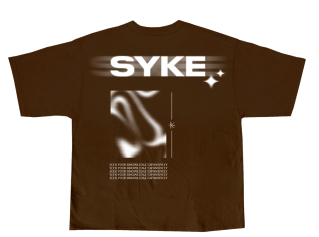
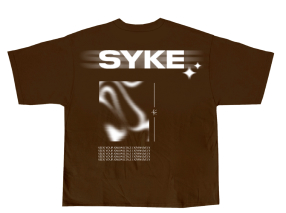
botao funciaonando

diff --git a/projetoFinal/src/TelaProduto.java b/projetoFinal/src/TelaProduto.java
@@ -2,36 +2,36 @@ import java.awt.*;
 import javax.swing.*;
 import java.awt.event.ActionEvent;
 import java.awt.event.ActionListener;
+import java.lang.Math;
 
 public class TelaProduto extends Tela implements ActionListener {
-    private ImageIcon blusaProduto;
+    private ImageIcon imagensCamiseta[];
     private ImageIcon tituloProduto;
     private ImageIcon descricaoProduto;
     private int precoBlusa;
+    public int indiceFoto;
     private char tamanhoBlusa;
     public Main app;
-    //private BarraTamanho barraTamanho
-    // barra com 3 botoes de p, m, g
-
     public JLayeredPane paneTelaProduto;
+    public JLabel labelBlusaProduto;
     public JButton botaoTamanhoP;
     public JButton botaoTamanhoM;
     public JButton botaoTamanhoG;
     public JButton botaoVoltar;
+    public JButton botaoAvancaFoto;
+    public JButton botaoVoltaFoto;
+    //private BarraTamanho barraTamanho
+    // barra com 3 botoes de p, m, g
 
     public TelaProduto(boolean mostrarBarraNavegacao, 
-                        ImageIcon blusaProduto, 
-                        ImageIcon tituloProduto, 
-                        ImageIcon descricaoProduto,
+                        String corCamiseta,
                         Main app){
-        
         super(mostrarBarraNavegacao);
-        this.blusaProduto = blusaProduto;
-        this.tituloProduto = tituloProduto;
-        this.descricaoProduto = descricaoProduto;
+        organizaImagensTela(corCamiseta);
         this.precoBlusa = 100;
         this.tamanhoBlusa = 'd'; // comeca como default
         this.app = app;
+        this.indiceFoto = 0;
 
         // Definicao do layout do layeredPane
         paneTelaProduto = new JLayeredPane();
@@ -43,13 +43,15 @@ public class TelaProduto extends Tela implements ActionListener {
         painelImagemFundo.setBounds(0, 0, 390, 844);
 
         // Criando um Label para as imagens da blusa, do titulo e da descrição
-        JLabel labelBlusaProduto = new JLabel(blusaProduto);
+        this.labelBlusaProduto = new JLabel();
+        this.labelBlusaProduto.setIcon(imagensCamiseta[0]);
         JLabel labelTituloProdutoAbaixo = new JLabel(tituloProduto); // título de baixo
         JLabel labelTituloProdutoAcima = new JLabel(tituloProduto); // titulo de cima
         JLabel labelDescricaoProduto = new JLabel(descricaoProduto);
 
         // Ajustando o tamanho das imagens da blusa, do título e da descrição
-        labelBlusaProduto.setBounds(63, 230, 283, 219);
+        // labelBlusaProduto.setBounds(63, 230, 283, 219);
+        labelBlusaProduto.setBounds(52, 241, 286, 217);
         labelTituloProdutoAbaixo.setBounds(40, 571, 274, 71);
         labelTituloProdutoAcima.setBounds(29, 113, 274, 71);
         labelDescricaoProduto.setBounds(40, 633, 350, 120);
@@ -59,18 +61,24 @@ public class TelaProduto extends Tela implements ActionListener {
         ImageIcon imagemBotaoM = new ImageIcon("lib/tamanhoM.jpg");
         ImageIcon imagemBotaoG = new ImageIcon("lib/tamanhoG.jpg");
         ImageIcon imagemBotaoVoltar = new ImageIcon("lib/icon _arrow left_.png");
+        ImageIcon imagemBotaoAvancaFoto = new ImageIcon("lib/botaoAvancaFoto.jpg");
+        ImageIcon imagemBotaoVoltaFoto = new ImageIcon("lib/botaoVoltaFoto.jpg");
 
         // Adicionando Imagens aos botões dos tamanhos
         botaoTamanhoP = new JButton(imagemBotaoP);
         botaoTamanhoM = new JButton(imagemBotaoM);
         botaoTamanhoG = new JButton(imagemBotaoG);
         botaoVoltar = new JButton(imagemBotaoVoltar);
+        botaoAvancaFoto = new JButton(imagemBotaoAvancaFoto);
+        botaoVoltaFoto = new JButton(imagemBotaoVoltaFoto);
 
         // Ajustando o tamanho e posicionamento dos botões dos tamanhos
         botaoTamanhoP.setBounds(55, 505, 37, 45);
         botaoTamanhoM.setBounds(176, 505, 37, 45);
         botaoTamanhoG.setBounds(295, 505, 37, 45);
         botaoVoltar.setBounds(40, 44, 25, 18);
+        botaoAvancaFoto.setBounds(350, 365, 14, 22);
+        botaoVoltaFoto.setBounds(25, 368, 11, 19);
 
         // Ajustando a borda dos botões
         botaoTamanhoP.setBorderPainted(false);
@@ -78,7 +86,9 @@ public class TelaProduto extends Tela implements ActionListener {
         botaoTamanhoG.setBorderPainted(false);
         botaoVoltar.setBorderPainted(false);
         botaoVoltar.setBackground(new Color(0,0,0,0));
-        
+        botaoAvancaFoto.setBorderPainted(false);
+        botaoVoltaFoto.setBorderPainted(false);
+
         // Ajustando as camadas do panel que serão colocadas as imagens
         paneTelaProduto.add(painelImagemFundo, Integer.valueOf(0));
         paneTelaProduto.add(labelBlusaProduto, Integer.valueOf(2));
@@ -91,17 +101,17 @@ public class TelaProduto extends Tela implements ActionListener {
         paneTelaProduto.add(botaoTamanhoM, Integer.valueOf(2));
         paneTelaProduto.add(botaoTamanhoG, Integer.valueOf(2));
         paneTelaProduto.add(botaoVoltar, Integer.valueOf(2));
+        paneTelaProduto.add(botaoAvancaFoto, Integer.valueOf(2));
+        paneTelaProduto.add(botaoVoltaFoto, Integer.valueOf(2));
         
         // Action listener botao voltar
         botaoVoltar.addActionListener(this);
+        botaoAvancaFoto.addActionListener(this);
+        botaoVoltaFoto.addActionListener(this);
     }
 
     public JLayeredPane getLayeredPane(){
         return this.paneTelaProduto;
-    }
-
-    public ImageIcon getImageBlusaProduto(){
-        return this.blusaProduto;
     }
 
     public ImageIcon getImageTituloProduto(){
@@ -118,14 +128,6 @@ public class TelaProduto extends Tela implements ActionListener {
 
     public void setTamanhoBlusa(char tamanhoBlusa){ // somente P, M ou G
         this.tamanhoBlusa = tamanhoBlusa;
-    }
-
-    public ImageIcon getBlusaProduto() {
-        return this.blusaProduto;
-    }
-
-    public void setBlusaProduto(ImageIcon blusaProduto) {
-        this.blusaProduto = blusaProduto;
     }
 
     public ImageIcon getTituloProduto() {
@@ -192,6 +194,22 @@ public class TelaProduto extends Tela implements ActionListener {
         this.botaoTamanhoG = botaoTamanhoG;
     }
 
+    public JButton getBotaoAvancaFoto() {
+        return this.botaoAvancaFoto;
+    }
+
+    public void setBotaoAvancaFoto(JButton botaoAvancaFoto) {
+        this.botaoAvancaFoto = botaoAvancaFoto;
+    }
+
+    public JButton getBotaoVoltaFoto() {
+        return this.botaoVoltaFoto;
+    }
+
+    public void setbotaoVoltaFoto(JButton botaoVoltaFoto) {
+        this.botaoVoltaFoto = botaoVoltaFoto;
+    }
+
     public JButton getBotaoVoltar() {
         return this.botaoVoltar;
     }
@@ -199,13 +217,48 @@ public class TelaProduto extends Tela implements ActionListener {
     public void setBotaoVoltar(JButton botaoVoltar) {
         this.botaoVoltar = botaoVoltar;
     }
-
     
+    public void organizaImagensTela(String corCamiseta) {
+        this.imagensCamiseta = new ImageIcon[2];
+        if (corCamiseta.equals("preta")) {
+            this.imagensCamiseta[0] = new ImageIcon("lib/camisetaPretaFrente.jpg");
+            this.imagensCamiseta[1] = new ImageIcon("lib/camisetaPretaTras.jpg");
+            this.tituloProduto = new ImageIcon("lib/tituloCamisetaPreta.jpg");
+        } else if (corCamiseta.equals("marrom")) {
+            this.imagensCamiseta[0] = new ImageIcon("lib/camisetaMarromFrente.jpg");
+            this.imagensCamiseta[1] = new ImageIcon("lib/camisetaMarromTras.jpg");
+            this.tituloProduto = new ImageIcon("lib/tituloCamisetaMarrom.jpg");
+        } else if (corCamiseta.equals("offwhite")) {
+            this.imagensCamiseta[0] = new ImageIcon("lib/camisetaOffWhiteFrente.jpg");
+            this.imagensCamiseta[1] = new ImageIcon("lib/camisetaOffWhiteTras.jpg");
+            this.tituloProduto = new ImageIcon("lib/tituloCamisetaOffWhite.jpg");
+        } else if (corCamiseta.equals("branca")) {
+            this.imagensCamiseta[0] = new ImageIcon("lib/camisetaBrancaFrente.jpg");
+            this.imagensCamiseta[1] = new ImageIcon("lib/camisetaBrancaTras.jpg");
+            this.tituloProduto = new ImageIcon("lib/tituloCamisetaBranca.jpg");
+        }
+        this.descricaoProduto = new ImageIcon("lib/TESTEdescricao.jpg");
+    }
+
+    public int decideIndiceImagem(int indice) {
+        if (Math.abs(indice) % 2 == 0) {
+            return 0;
+        } else {
+            return 1;
+        }
+    }
+
     @Override
     public void actionPerformed(ActionEvent e) {
         if (e.getSource() == getBotaoVoltar()) {
             app.mostrarTela("Essentials");
-        } 
+        } else if (e.getSource() == getBotaoAvancaFoto()) {
+            this.indiceFoto++;
+            this.labelBlusaProduto.setIcon(imagensCamiseta[decideIndiceImagem(indiceFoto)]);
+        } else if (e.getSource() == getBotaoVoltaFoto()) {
+            this.indiceFoto--;
+            this.labelBlusaProduto.setIcon(imagensCamiseta[decideIndiceImagem(indiceFoto)]);
+        }
         
     }
 

diff --git a/projetoFinal/src/Main.java b/projetoFinal/src/Main.java
@@ -26,10 +26,10 @@ public class Main extends JFrame {
         telaHome = new TelaHome(false, this);
         telaLoginCadastro = new TelaLoginCadastro(false, this);
         telaEssentials = new TelaEssentials(true, this);
-        telaCamisetaPreta = new TelaProduto(false, new ImageIcon("lib/camisetaPretaTras.jpg"), new ImageIcon("lib/tituloCamisetaPreta.jpg"), new ImageIcon("lib/TESTEdescricao.jpg"), this);
-        telaCamisetaMarrom = new TelaProduto(false, new ImageIcon("lib/camisetaMarromTras.jpg"), new ImageIcon("lib/tituloCamisetaMarrom.jpg"), new ImageIcon("lib/TESTEdescricao.jpg"), this);
-        telaCamisetaOffWhite = new TelaProduto(false, new ImageIcon("lib/camisetaOffWhiteTras.jpg"), new ImageIcon("lib/tituloCamisetaOffWhite.jpg"), new ImageIcon("lib/TESTEdescricao.jpg"), this);
-        telaCamisetaBranca = new TelaProduto(false, new ImageIcon("lib/camisetaBrancaTras.jpg"), new ImageIcon("lib/tituloCamisetaBranca.jpg"), new ImageIcon("lib/TESTEdescricao.jpg"), this);
+        telaCamisetaPreta = new TelaProduto(false, "preta", this);
+        telaCamisetaMarrom = new TelaProduto(false, "marrom", this);
+        telaCamisetaOffWhite = new TelaProduto(false, "offwhite", this);
+        telaCamisetaBranca = new TelaProduto(false, "branca", this);
 
         //Adicionando telas ao painel 
         painelPrincipal.add(telaHome.getLayeredPane(), "Home");
